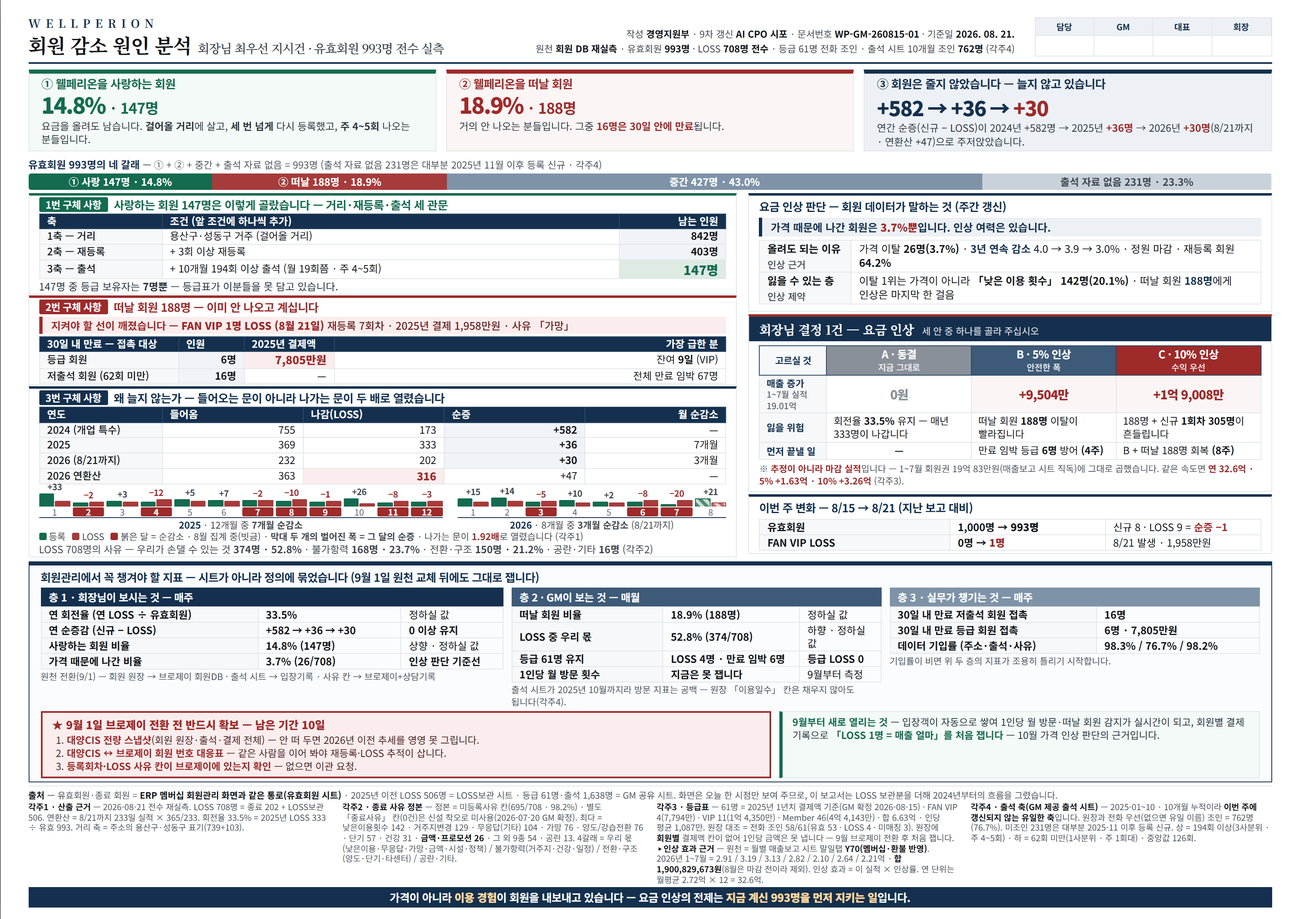
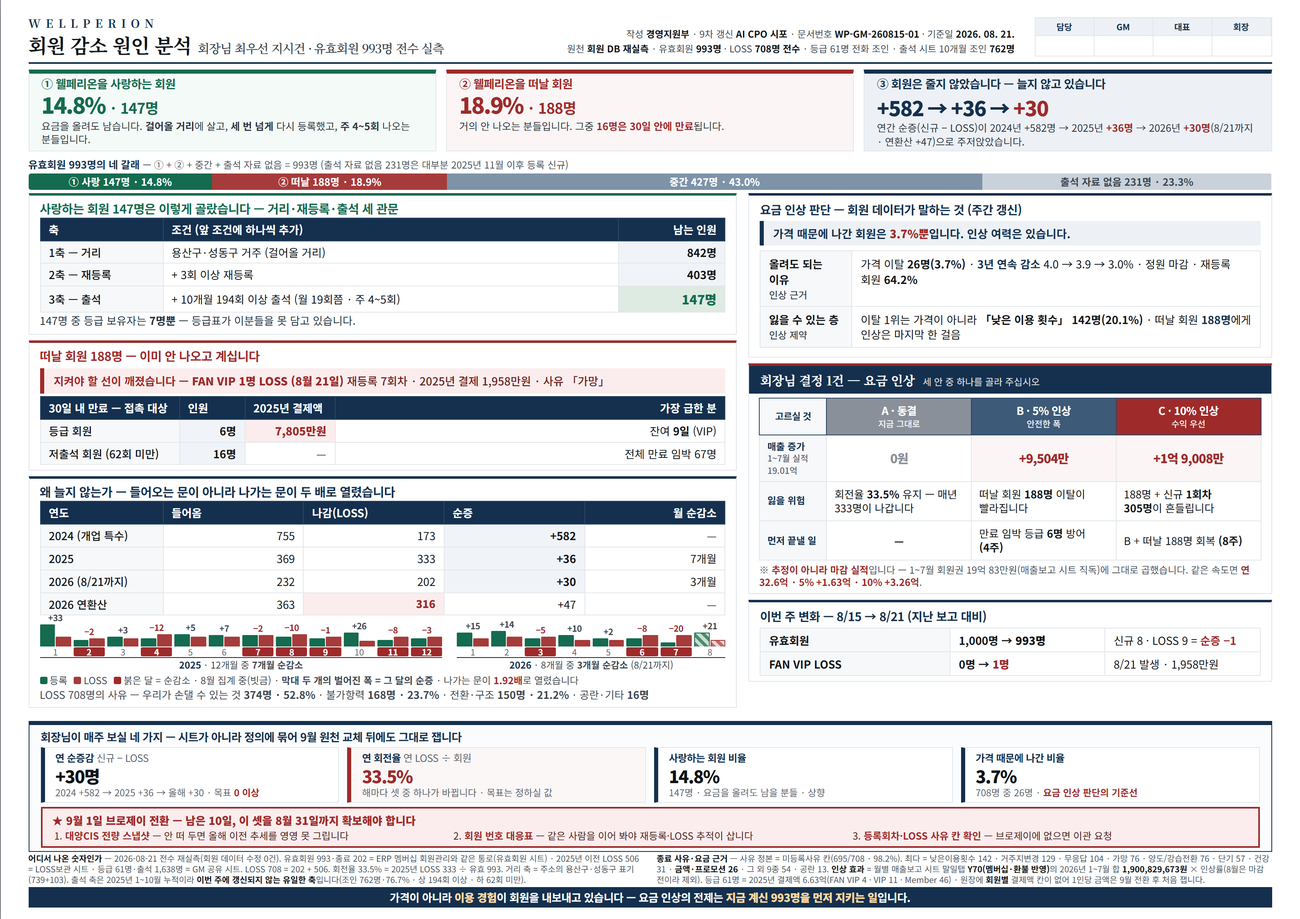
docs(cpo): A3 단순화 — 하단 3층 지표를 회장님 4카드로, 각주 4개를 2개로
GM: '내용 자체도 너무 복잡해 가독성 및 직관적이지 못해' · '위 3가지 지표는 임팩트 있어'

뺀 것(정보는 다른 자리에 이미 있다):
- KPI 3층 표(층1 4행 + 층2 4행 + 층3 3행) -> 회장님 4카드 한 줄. 층2 지표는 상단 hero·LOSS 사유
  줄에, 층3 접촉 명단은 좌측 '30일 내 만료 접촉 대상' 표에 이미 있어 두 벌이었다.
- '9월부터 새로 열리는 것' 박스 — 10월 인상 판단 근거라는 요지는 결정 카드가 이미 말한다.
- 각주 4개 -> 2개(어디서 나온 숫자인가 / 종료 사유·요금 근거). 본문 각주 번호 참조도 제거.
- '1번/2번/3번 구체 사항' 라벨 — 회장님께 뜻이 없는 내부 번호.
- 브로제이 확보 3항목을 세로 목록에서 가로 3칸으로.

키운 것(빈 자리를 여백이 아니라 가독성으로 채웠다):
- 4지표를 상단 hero 와 같은 어법의 큰 숫자 카드로(GM 이 임팩트 있다고 한 형태).
- 표 글자 12.4 -> 13.4px · 행 높이 1.42 -> 2.0 · 결정 카드 셀 padding 2 -> 6px.
- 월별 막대 1.7배(그릇 34 -> 42px) — 막대가 너무 작아 '벌어진 폭' 이 안 보였다.
- 섹션 padding·단 간격 확대.

블록 수 10 -> 6. 렌더 검증: A3 넘침 0 · PNG 동시 갱신.

Changed region(s): [[0.0, 0.187, 0.9975, 0.9662], [0.4052, 0.0312, 0.7793, 0.0623]]

diff --git a/3. 웰페리온 가이드/reports/260815_회원감소원인분석_A3.html b/3. 웰페리온 가이드/reports/260815_회원감소원인분석_A3.html
@@ -83,25 +83,25 @@
 
   /* 【중단】 좌우 2단 */
   .body2{ margin-top:4px; display:flex; gap:14px; flex:1; min-height:0; }
-  .colL{ width:57%; flex:none; display:flex; flex-direction:column; gap:1px; }
-  .colR{ flex:1; display:flex; flex-direction:column; gap:3px; min-width:0; }
+  .colL{ width:57%; flex:none; display:flex; flex-direction:column; gap:7px; }
+  .colR{ flex:1; display:flex; flex-direction:column; gap:7px; min-width:0; }
 
   /* 구체 사항 박스 */
-  .sec{ border:1px solid var(--line); border-top:3px solid var(--navy); padding:1px 12px 1px; }
-  .sec h3{ font-size:14px; font-weight:700; color:var(--navy); letter-spacing:-.3px; margin-bottom:1px; }
+  .sec{ border:1px solid var(--line); border-top:3px solid var(--navy); padding:5px 13px 6px; }
+  .sec h3{ font-size:15px; font-weight:700; color:var(--navy); letter-spacing:-.3px; margin-bottom:1px; }
   .sec h3 .no{ display:inline-block; background:var(--navy); color:#fff; font-size:12.3px; padding:0 8px;
     border-radius:2px; margin-right:7px; vertical-align:1px; }
   .sec.g{ border-top-color:var(--good); } .sec.g h3{ color:var(--good); } .sec.g h3 .no{ background:var(--good); }
   .sec.r{ border-top-color:var(--bad); } .sec.r h3{ color:var(--bad); } .sec.r h3 .no{ background:var(--bad); }
-  .sec p{ font-size:12.5px; line-height:1.29; color:#22303B; margin-top:1px; }
+  .sec p{ font-size:13.2px; line-height:1.4; color:#22303B; margin-top:1px; }
   .sec p b{ font-weight:700; }
-  .key{ background:#FBEDED; border-left:4px solid var(--bad); padding:2px 11px; margin-top:2px;
-    font-size:12.8px; font-weight:700; line-height:1.34; color:var(--bad); }
+  .key{ background:#FBEDED; border-left:5px solid var(--bad); padding:6px 12px; margin-top:5px;
+    font-size:13.6px; font-weight:700; line-height:1.4; color:var(--bad); }
   .key span{ font-weight:500; color:#6B2020; }
 
   /* 3축 깔때기 표 */
   .xt{ width:100%; border-collapse:collapse; table-layout:fixed; }
-  .xt th,.xt td{ border:1px solid var(--line); padding:0 9px; font-size:12.4px; line-height:1.42; text-align:right; font-variant-numeric:tabular-nums; }
+  .xt th,.xt td{ border:1px solid var(--line); padding:0 10px; font-size:13.4px; line-height:2.0; text-align:right; font-variant-numeric:tabular-nums; }
   .xt th{ background:var(--navy); color:#fff; font-weight:700; border-color:#2A4763; text-align:left; }
   .xt th:last-child{ text-align:right; }
   .xt td.k{ text-align:left; background:#F6F8FA; font-weight:500; }
@@ -109,10 +109,10 @@
   .xt td.tot{ font-weight:700; background:#F0F3F7; }
 
   /* 월별 그래프 */
-  .chart{ display:flex; gap:18px; margin-top:5px; }
+  .chart{ display:flex; gap:18px; margin-top:8px; }
   .yr{ flex:12; }
   .yr.y26{ flex:8; }
-  .yr .bars{ display:flex; align-items:flex-end; gap:3px; height:34px; }
+  .yr .bars{ display:flex; align-items:flex-end; gap:3px; height:42px; }
   .m{ flex:1; display:flex; flex-direction:column; align-items:center; justify-content:flex-end; height:100%; }
   .m b{ font-size:10.5px; font-weight:700; color:#3C464F; margin-bottom:1px; font-variant-numeric:tabular-nums; letter-spacing:-.3px; }
   .m .duo{ display:flex; align-items:flex-end; gap:1px; width:100%; }
@@ -124,7 +124,7 @@
   .m s{ text-decoration:none; font-size:10.5px; color:#5C666F; margin-top:1px; line-height:1.1; }
   .m.neg b{ color:var(--bad); }
   .m.neg s{ background:var(--bad); color:#fff; width:100%; text-align:center; border-radius:2px; font-weight:700; }
-  .legend{ margin-top:0; font-size:11.2px; color:#3C464F; line-height:1.2; }
+  .legend{ margin-top:3px; font-size:11.8px; color:#3C464F; line-height:1.35; }
   .legend .sw{ display:inline-block; width:9px; height:9px; border-radius:2px; vertical-align:baseline; margin:0 3px 0 8px; }
   .legend .sw:first-child{ margin-left:0; }
   .legend .neg-sw{ background:var(--bad); }
@@ -135,21 +135,21 @@
   /* 사유 구성 스택 */
   .stack{ display:flex; height:11px; border-radius:2px; overflow:hidden; margin-top:4px; }
   .stack i{ display:block; height:100%; }
-  .chips{ font-size:12.2px; line-height:1.24; color:#3C464F; margin-top:1px; }
+  .chips{ font-size:12.8px; line-height:1.4; color:#3C464F; margin-top:5px; }
   .chips b{ font-weight:700; }
   .dot{ display:inline-block; width:8px; height:8px; border-radius:2px; margin:0 3px 0 9px; vertical-align:baseline; }
   .dot:first-child{ margin-left:0; }
   .c-us{ background:var(--bad); } .c-na{ background:#8A9099; } .c-tr{ background:#B9C6D4; } .c-et{ background:#E3E7EB; }
 
   /* 우측 — 안건 */
-  .box{ border:1px solid var(--line); border-top:3px solid var(--navy); padding:3px 12px 3px; }
-  .box h3{ font-size:13.8px; font-weight:700; color:var(--navy); letter-spacing:-.3px; margin-bottom:4px; }
-  .agenda .concl{ background:var(--navy-bg); border-left:4px solid var(--navy); color:var(--navy);
-    font-weight:700; font-size:13px; padding:3px 10px; margin-bottom:4px; line-height:1.35; }
+  .box{ border:1px solid var(--line); border-top:3px solid var(--navy); padding:6px 13px 6px; }
+  .box h3{ font-size:14.6px; font-weight:700; color:var(--navy); letter-spacing:-.3px; margin-bottom:4px; }
+  .agenda .concl{ background:var(--navy-bg); border-left:5px solid var(--navy); color:var(--navy);
+    font-weight:700; font-size:13.8px; padding:6px 11px; margin-bottom:6px; line-height:1.35; }
   .agenda p.prob{ font-size:12.8px; line-height:1.36; margin-bottom:4px; }
   .agenda p.prob b{ color:var(--bad); }
   table.ag{ width:100%; border-collapse:collapse; table-layout:fixed; margin-bottom:5px; }
-  table.ag th, table.ag td{ border:1px solid var(--line); padding:2px 9px; font-size:12.8px; line-height:1.3; vertical-align:top; }
+  table.ag th, table.ag td{ border:1px solid var(--line); padding:6px 10px; font-size:13.4px; line-height:1.38; vertical-align:top; }
   table.ag td.a{ background:#F6F8FA; font-weight:700; }
   table.ag td.a .sub{ display:block; font-weight:500; font-size:11.8px; color:#3C464F; margin-top:2px; line-height:1.3; }
   table.ag .lbl{ font-weight:700; color:var(--navy); }
@@ -158,7 +158,7 @@
 
   /* 결정 요청 — 3안 비교 */
   .opt{ width:100%; border-collapse:collapse; table-layout:fixed; }
-  .opt th, .opt td{ border:1px solid var(--line); padding:2px 8px; font-size:12.2px; line-height:1.28; }
+  .opt th, .opt td{ border:1px solid var(--line); padding:6px 9px; font-size:13px; line-height:1.35; }
   .opt thead th{ color:#fff; font-weight:700; text-align:center; font-size:13.2px; letter-spacing:-.3px; border-color:#2A4763; }
   .opt thead th.rk{ background:#F6F8FA; color:var(--navy); font-size:11.5px; }
   .opt th.oa{ background:#8A9099; } .opt th.ob{ background:#3D5A78; } .opt th.oc{ background:var(--bad); }
@@ -168,10 +168,10 @@
   .opt td.money.up{ background:#FBF5F5; color:var(--bad); }
   .opt td.money.zero{ color:#8A9099; }
   .opt td.c{ text-align:center; font-weight:700; }
-  .askhead{ background:var(--navy); color:#fff; padding:4px 12px; display:flex; align-items:baseline; gap:10px; }
+  .askhead{ background:var(--navy); color:#fff; padding:6px 13px; display:flex; align-items:baseline; gap:10px; }
   .askhead strong{ font-family:'Noto Serif KR',serif; font-size:15.5px; letter-spacing:-.5px; }
   .askhead span{ font-size:11.5px; opacity:.85; }
-  .asknote{ font-size:11px; color:#48525B; line-height:1.32; margin-top:3px; }
+  .asknote{ font-size:11.8px; color:#48525B; line-height:1.32; margin-top:3px; }
   .asknote b{ color:var(--bad); }
 
   .ask{ background:var(--navy); color:#fff; display:flex; align-items:stretch; }
@@ -191,11 +191,22 @@
   .kpi{ margin-top:4px; border:1.5px solid var(--navy); border-top:5px solid var(--navy); padding:4px 14px 4px; background:#FBFCFE; }
   .kpi h3{ font-size:13.8px; font-weight:700; color:var(--navy); letter-spacing:-.4px; margin-bottom:3px; }
   table.kt{ width:100%; border-collapse:collapse; table-layout:fixed; }
-  table.kt th, table.kt td{ border:1px solid var(--line); padding:1px 9px; font-size:12.5px; line-height:1.28; }
+  table.kt th, table.kt td{ border:1px solid var(--line); padding:5px 10px; font-size:13.4px; line-height:1.35; }
   table.kt thead th{ background:var(--navy); color:#fff; font-weight:700; border-color:#2A4763; text-align:left; }
   table.kt td.k{ background:#F6F8FA; font-weight:700; }
   table.kt td.v{ font-variant-numeric:tabular-nums; font-weight:700; }
   table.kt td.v .est{ font-weight:400; color:#5C666F; font-size:11.8px; }
+  /* 회장님 4지표 — hero 와 같은 어법(큰 숫자 카드) */
+  .kpi4{ display:flex; gap:10px; }
+  .kpi4 .c{ flex:1; border:1px solid var(--line); border-left:5px solid var(--navy); background:#fff; padding:3px 13px 4px; }
+  .kpi4 .c .lb{ font-size:12.3px; font-weight:700; color:var(--navy); letter-spacing:-.3px; }
+  .kpi4 .c .vv{ font-size:21px; font-weight:900; letter-spacing:-1px; line-height:1.15; margin:1px 0 1px;
+    font-variant-numeric:tabular-nums; }
+  .kpi4 .c .gg{ font-size:11.5px; color:#5C666F; line-height:1.3; }
+  .kpi4 .c .gg b{ color:var(--bad); font-weight:700; }
+  .kpi4 .c.hot{ border-left-color:var(--bad); background:#FBF7F7; }
+  .kpi4 .c.hot .vv{ color:var(--bad); }
+
   .tiers{ display:flex; gap:10px; }
   .tier{ flex:1; }
   .tier.t1{ flex:1.25; }
@@ -245,8 +256,7 @@
     </div>
     <div class="meta">
       작성 <b>경영지원부</b> · 9차 갱신 <b>AI CPO 시포</b> · 문서번호 <b>WP-GM-260815-01</b> · 기준일 <b>2026. 08. 21.</b><br>
-      원천 <b>회원 DB 재실측</b> · 유효회원 <b>993명</b> · LOSS <b>708명 전수</b> · 등급 61명 전화 조인 · 출석 시트 10개월 조인 <b>762명</b> (각주4)
-    </div>
+      원천 <b>회원 DB 재실측</b> · 유효회원 <b>993명</b> · LOSS <b>708명 전수</b> · 등급 61명 전화 조인 · 출석 시트 10개월 조인 <b>762명</b>    </div>
     <div class="sign">
       <div><div class="t">담당</div><div class="b"></div></div>
       <div><div class="t">GM</div><div class="b"></div></div>
@@ -276,7 +286,7 @@
 
   <!-- 전체 1,000명 네 갈래 띠 -->
   <div class="band">
-    <div class="tt">유효회원 993명의 네 갈래 <span>— ① + ② + 중간 + 출석 자료 없음 = 993명 (출석 자료 없음 231명은 대부분 2025년 11월 이후 등록 신규 · 각주4)</span></div>
+    <div class="tt">유효회원 993명의 네 갈래 <span>— ① + ② + 중간 + 출석 자료 없음 = 993명 (출석 자료 없음 231명은 대부분 2025년 11월 이후 등록 신규)</span></div>
     <div class="strip">
       <i class="s1" style="width:14.8%">① 사랑 147명 · 14.8%</i>
       <i class="s2" style="width:18.9%">② 떠날 188명 · 18.9%</i>
@@ -291,7 +301,7 @@
     <div class="colL">
 
       <div class="sec g">
-        <h3><span class="no">1번 구체 사항</span>사랑하는 회원 147명은 이렇게 골랐습니다 — 거리·재등록·출석 세 관문</h3>
+        <h3>사랑하는 회원 147명은 이렇게 골랐습니다 — 거리·재등록·출석 세 관문</h3>
         <table class="xt">
           <colgroup><col style="width:150px"><col><col style="width:130px"></colgroup>
           <thead><tr><th>축</th><th>조건 (앞 조건에 하나씩 추가)</th><th>남는 인원</th></tr></thead>
@@ -305,7 +315,7 @@
       </div>
 
       <div class="sec r">
-        <h3><span class="no">2번 구체 사항</span>떠날 회원 188명 — 이미 안 나오고 계십니다</h3>
+        <h3>떠날 회원 188명 — 이미 안 나오고 계십니다</h3>
         <div class="key">지켜야 할 선이 깨졌습니다 — <b>FAN VIP 1명 LOSS (8월 21일)</b> <span>재등록 7회차 · 2025년 결제 1,958만원 · 사유 「가망」</span></div>
         <table class="xt" style="margin-top:3px">
           <colgroup><col style="width:170px"><col style="width:80px"><col style="width:110px"><col></colgroup>
@@ -318,7 +328,7 @@
       </div>
 
       <div class="sec">
-        <h3><span class="no">3번 구체 사항</span>왜 늘지 않는가 — 들어오는 문이 아니라 나가는 문이 두 배로 열렸습니다</h3>
+        <h3>왜 늘지 않는가 — 들어오는 문이 아니라 나가는 문이 두 배로 열렸습니다</h3>
         <table class="xt">
           <colgroup><col style="width:150px"><col><col><col><col></colgroup>
           <thead><tr><th>연도</th><th>들어옴</th><th>나감(LOSS)</th><th>순증</th><th>월 순감소</th></tr></thead>
@@ -332,37 +342,37 @@
         <div class="chart">
           <div class="yr">
             <div class="bars">
-              <div class="m"><b>+33</b><span class="duo"><i class="in" style="height:16px"></i><i class="out" style="height:7px"></i></span><s>1</s></div>
-              <div class="m neg"><b>−2</b><span class="duo"><i class="in" style="height:5px"></i><i class="out" style="height:6px"></i></span><s>2</s></div>
-              <div class="m"><b>+3</b><span class="duo"><i class="in" style="height:7px"></i><i class="out" style="height:6px"></i></span><s>3</s></div>
-              <div class="m neg"><b>−12</b><span class="duo"><i class="in" style="height:6px"></i><i class="out" style="height:9px"></i></span><s>4</s></div>
-              <div class="m"><b>+5</b><span class="duo"><i class="in" style="height:9px"></i><i class="out" style="height:7px"></i></span><s>5</s></div>
-              <div class="m"><b>+7</b><span class="duo"><i class="in" style="height:8px"></i><i class="out" style="height:7px"></i></span><s>6</s></div>
-              <div class="m neg"><b>−2</b><span class="duo"><i class="in" style="height:8px"></i><i class="out" style="height:8px"></i></span><s>7</s></div>
-              <div class="m neg"><b>−10</b><span class="duo"><i class="in" style="height:7px"></i><i class="out" style="height:9px"></i></span><s>8</s></div>
-              <div class="m neg"><b>−1</b><span class="duo"><i class="in" style="height:6px"></i><i class="out" style="height:7px"></i></span><s>9</s></div>
-              <div class="m"><b>+26</b><span class="duo"><i class="in" style="height:10px"></i><i class="out" style="height:4px"></i></span><s>10</s></div>
-              <div class="m neg"><b>−8</b><span class="duo"><i class="in" style="height:5px"></i><i class="out" style="height:7px"></i></span><s>11</s></div>
-              <div class="m neg"><b>−3</b><span class="duo"><i class="in" style="height:6px"></i><i class="out" style="height:7px"></i></span><s>12</s></div>
+              <div class="m"><b>+33</b><span class="duo"><i class="in" style="height:27px"></i><i class="out" style="height:12px"></i></span><s>1</s></div>
+              <div class="m neg"><b>−2</b><span class="duo"><i class="in" style="height:8px"></i><i class="out" style="height:10px"></i></span><s>2</s></div>
+              <div class="m"><b>+3</b><span class="duo"><i class="in" style="height:12px"></i><i class="out" style="height:10px"></i></span><s>3</s></div>
+              <div class="m neg"><b>−12</b><span class="duo"><i class="in" style="height:10px"></i><i class="out" style="height:15px"></i></span><s>4</s></div>
+              <div class="m"><b>+5</b><span class="duo"><i class="in" style="height:15px"></i><i class="out" style="height:12px"></i></span><s>5</s></div>
+              <div class="m"><b>+7</b><span class="duo"><i class="in" style="height:14px"></i><i class="out" style="height:12px"></i></span><s>6</s></div>
+              <div class="m neg"><b>−2</b><span class="duo"><i class="in" style="height:14px"></i><i class="out" style="height:14px"></i></span><s>7</s></div>
+              <div class="m neg"><b>−10</b><span class="duo"><i class="in" style="height:12px"></i><i class="out" style="height:15px"></i></span><s>8</s></div>
+              <div class="m neg"><b>−1</b><span class="duo"><i class="in" style="height:10px"></i><i class="out" style="height:12px"></i></span><s>9</s></div>
+              <div class="m"><b>+26</b><span class="duo"><i class="in" style="height:17px"></i><i class="out" style="height:7px"></i></span><s>10</s></div>
+              <div class="m neg"><b>−8</b><span class="duo"><i class="in" style="height:8px"></i><i class="out" style="height:12px"></i></span><s>11</s></div>
+              <div class="m neg"><b>−3</b><span class="duo"><i class="in" style="height:10px"></i><i class="out" style="height:12px"></i></span><s>12</s></div>
             </div>
             <div class="cap">2025 <span>· 12개월 중 <b>7개월 순감소</b></span></div>
           </div>
           <div class="yr y26">
             <div class="bars">
-              <div class="m"><b>+15</b><span class="duo"><i class="in" style="height:10px"></i><i class="out" style="height:6px"></i></span><s>1</s></div>
-              <div class="m"><b>+14</b><span class="duo"><i class="in" style="height:11px"></i><i class="out" style="height:7px"></i></span><s>2</s></div>
-              <div class="m neg"><b>−5</b><span class="duo"><i class="in" style="height:6px"></i><i class="out" style="height:7px"></i></span><s>3</s></div>
-              <div class="m"><b>+10</b><span class="duo"><i class="in" style="height:8px"></i><i class="out" style="height:5px"></i></span><s>4</s></div>
-              <div class="m"><b>+2</b><span class="duo"><i class="in" style="height:6px"></i><i class="out" style="height:5px"></i></span><s>5</s></div>
-              <div class="m neg"><b>−8</b><span class="duo"><i class="in" style="height:6px"></i><i class="out" style="height:8px"></i></span><s>6</s></div>
-              <div class="m neg"><b>−20</b><span class="duo"><i class="in" style="height:3px"></i><i class="out" style="height:8px"></i></span><s>7</s></div>
-              <div class="m part"><b>+21</b><span class="duo"><i class="in" style="height:10px"></i><i class="out" style="height:5px"></i></span><s>8</s></div>
+              <div class="m"><b>+15</b><span class="duo"><i class="in" style="height:17px"></i><i class="out" style="height:10px"></i></span><s>1</s></div>
+              <div class="m"><b>+14</b><span class="duo"><i class="in" style="height:19px"></i><i class="out" style="height:12px"></i></span><s>2</s></div>
+              <div class="m neg"><b>−5</b><span class="duo"><i class="in" style="height:10px"></i><i class="out" style="height:12px"></i></span><s>3</s></div>
+              <div class="m"><b>+10</b><span class="duo"><i class="in" style="height:14px"></i><i class="out" style="height:8px"></i></span><s>4</s></div>
+              <div class="m"><b>+2</b><span class="duo"><i class="in" style="height:10px"></i><i class="out" style="height:8px"></i></span><s>5</s></div>
+              <div class="m neg"><b>−8</b><span class="duo"><i class="in" style="height:10px"></i><i class="out" style="height:14px"></i></span><s>6</s></div>
+              <div class="m neg"><b>−20</b><span class="duo"><i class="in" style="height:5px"></i><i class="out" style="height:14px"></i></span><s>7</s></div>
+              <div class="m part"><b>+21</b><span class="duo"><i class="in" style="height:17px"></i><i class="out" style="height:8px"></i></span><s>8</s></div>
             </div>
             <div class="cap">2026 <span>· 8개월 중 <b>3개월 순감소</b> (8/21까지)</span></div>
           </div>
         </div>
-        <div class="legend"><span class="sw" style="background:var(--good)"></span>등록<span class="sw" style="background:#A63B3B"></span>LOSS<span class="sw neg-sw"></span>붉은 달 = 순감소 · 8월 집계 중(빗금) · <b>막대 두 개의 벌어진 폭 = 그 달의 순증</b> · 나가는 문이 <b style="color:var(--bad)">1.92배</b>로 열렸습니다 (각주1)</div>
-        <div class="chips" style="margin-top:1px">LOSS 708명의 사유 — 우리가 손댈 수 있는 것 <b>374명 · 52.8%</b> · 불가항력 <b>168명 · 23.7%</b> · 전환·구조 <b>150명 · 21.2%</b> · 공란·기타 <b>16명</b> (각주2)</div>
+        <div class="legend"><span class="sw" style="background:var(--good)"></span>등록<span class="sw" style="background:#A63B3B"></span>LOSS<span class="sw neg-sw"></span>붉은 달 = 순감소 · 8월 집계 중(빗금) · <b>막대 두 개의 벌어진 폭 = 그 달의 순증</b> · 나가는 문이 <b style="color:var(--bad)">1.92배</b>로 열렸습니다</div>
+        <div class="chips" style="margin-top:1px">LOSS 708명의 사유 — 우리가 손댈 수 있는 것 <b>374명 · 52.8%</b> · 불가항력 <b>168명 · 23.7%</b> · 전환·구조 <b>150명 · 21.2%</b> · 공란·기타 <b>16명</b></div>
       </div>
 
     </div>
@@ -421,7 +431,7 @@
             </tr>
           </tbody>
         </table>
-        <div class="asknote">※ <b>추정이 아니라 마감 실적</b>입니다 — 1~7월 회원권 19억 83만원(매출보고 시트 직독)에 그대로 곱했습니다. 같은 속도면 <b>연 32.6억 · 5% +1.63억 · 10% +3.26억</b> (각주3).</div>
+        <div class="asknote">※ <b>추정이 아니라 마감 실적</b>입니다 — 1~7월 회원권 19억 83만원(매출보고 시트 직독)에 그대로 곱했습니다. 같은 속도면 <b>연 32.6억 · 5% +1.63억 · 10% +3.26억</b>.</div>
         </div>
       </div>
 
@@ -441,67 +451,45 @@
 
   <!-- 【하단 마무리】 회원관리에서 꼭 챙겨야 할 지표 — 3층 체계 -->
   <div class="kpi">
-    <h3>회원관리에서 꼭 챙겨야 할 지표 — 시트가 아니라 정의에 묶었습니다 (9월 1일 원천 교체 뒤에도 그대로 잽니다)</h3>
-    <div class="tiers">
-      <div class="tier t1">
-        <div class="th">층 1 · 회장님이 보시는 것 — 매주</div>
-        <table class="kt">
-          <colgroup><col style="width:47%"><col style="width:31%"><col></colgroup>
-          <tbody>
-            <tr><td class="k">연 회전율 (연 LOSS ÷ 유효회원)</td><td class="v">33.5%</td><td>정하실 값</td></tr>
-            <tr><td class="k">연 순증감 (신규 − LOSS)</td><td class="v">+582 → +36 → +30</td><td><b>0 이상 유지</b></td></tr>
-            <tr><td class="k">사랑하는 회원 비율</td><td class="v">14.8% (147명)</td><td>상향 · 정하실 값</td></tr>
-            <tr><td class="k">가격 때문에 나간 비율</td><td class="v">3.7% (26/708)</td><td><b>인상 판단 기준선</b></td></tr>
-          </tbody>
-        </table>
-        <div class="src">원천 전환(9/1) — 회원 원장 → 브로제이 회원DB · 출석 시트 → 입장기록 · 사유 칸 → 브로제이+상담기록</div>
+    <h3>회장님이 매주 보실 네 가지 — 시트가 아니라 정의에 묶어 9월 원천 교체 뒤에도 그대로 잽니다</h3>
+    <div class="kpi4">
+      <div class="c">
+        <div class="lb">연 순증감 <span style="font-weight:400;color:#5C666F">신규 − LOSS</span></div>
+        <div class="vv">+30명</div>
+        <div class="gg">2024 +582 → 2025 +36 → 올해 +30 · 목표 <b>0 이상</b></div>
       </div>
-      <div class="tier t2">
-        <div class="th">층 2 · GM이 보는 것 — 매월</div>
-        <table class="kt">
-          <colgroup><col style="width:41%"><col style="width:37%"><col></colgroup>
-          <tbody>
-            <tr><td class="k">떠날 회원 비율</td><td class="v">18.9% (188명)</td><td>정하실 값</td></tr>
-            <tr><td class="k">LOSS 중 우리 몫</td><td class="v">52.8% (374/708)</td><td>하향 · 정하실 값</td></tr>
-            <tr><td class="k">등급 61명 유지</td><td class="v">LOSS 4명 · 만료 임박 6명</td><td><b>등급 LOSS 0</b></td></tr>
-            <tr><td class="k">1인당 월 방문 횟수</td><td class="v">지금은 못 잽니다</td><td>9월부터 측정</td></tr>
-          </tbody>
-        </table>
-        <div class="src">출석 시트가 2025년 10월까지라 방문 지표는 공백 — 원장 「이용일수」 칸은 채우지 않아도 됩니다(각주4).</div>
+      <div class="c hot">
+        <div class="lb">연 회전율 <span style="font-weight:400;color:#5C666F">연 LOSS ÷ 회원</span></div>
+        <div class="vv">33.5%</div>
+        <div class="gg">해마다 셋 중 하나가 바뀝니다 · 목표는 정하실 값</div>
       </div>
-      <div class="tier t3">
-        <div class="th">층 3 · 실무가 챙기는 것 — 매주</div>
-        <table class="kt">
-          <colgroup><col style="width:56%"><col></colgroup>
-          <tbody>
-            <tr><td class="k">30일 내 만료 저출석 회원 접촉</td><td class="v">16명</td></tr>
-            <tr><td class="k">30일 내 만료 등급 회원 접촉</td><td class="v">6명 · 7,805만원</td></tr>
-            <tr><td class="k">데이터 기입률 (주소·출석·사유)</td><td class="v">98.3% / 76.7% / 98.2%</td></tr>
-          </tbody>
-        </table>
-        <div class="src">기입률이 비면 위 두 층의 지표가 조용히 틀리기 시작합니다.</div>
+      <div class="c">
+        <div class="lb">사랑하는 회원 비율</div>
+        <div class="vv">14.8%</div>
+        <div class="gg">147명 · 요금을 올려도 남을 분들 · 상향</div>
+      </div>
+      <div class="c">
+        <div class="lb">가격 때문에 나간 비율</div>
+        <div class="vv">3.7%</div>
+        <div class="gg">708명 중 26명 · <b>요금 인상 판단의 기준선</b></div>
       </div>
     </div>
     <div class="gbx">
-      <div class="must">
-        <div class="bt">★ 9월 1일 브로제이 전환 전 반드시 확보 — 남은 기간 10일</div>
-        <ol>
-          <li><b>대양CIS 전량 스냅샷</b>(회원 원장·출석·결제 전체) — 안 떠 두면 2026년 이전 추세를 영영 못 그립니다.</li>
-          <li><b>대양CIS ↔ 브로제이 회원 번호 대응표</b> — 같은 사람을 이어 봐야 재등록·LOSS 추적이 삽니다.</li>
-          <li><b>등록회차·LOSS 사유 칸이 브로제이에 있는지 확인</b> — 없으면 이관 요청.</li>
+      <div class="must" style="flex:1">
+        <div class="bt">★ 9월 1일 브로제이 전환 — 남은 10일, 이 셋을 8월 31일까지 확보해야 합니다</div>
+        <ol style="display:flex;gap:18px;margin-left:16px">
+          <li style="flex:1"><b>대양CIS 전량 스냅샷</b> — 안 떠 두면 올해 이전 추세를 영영 못 그립니다</li>
+          <li style="flex:1"><b>회원 번호 대응표</b> — 같은 사람을 이어 봐야 재등록·LOSS 추적이 삽니다</li>
+          <li style="flex:1"><b>등록회차·LOSS 사유 칸 확인</b> — 브로제이에 없으면 이관 요청</li>
         </ol>
       </div>
-      <div class="open9"><b>9월부터 새로 열리는 것</b> — 입장객이 자동으로 쌓여 1인당 월 방문·떠날 회원 감지가 실시간이 되고, 회원별 결제 기록으로 <b>「LOSS 1명 = 매출 얼마」를 처음 잽니다</b> — 10월 가격 인상 판단의 근거입니다.</div>
     </div>
   </div>
 
   <!-- 각주 -->
-  <div class="foot-src"><b>출처</b> — 유효회원·종료 회원 = <b>ERP 멤버십 회원관리 화면과 같은 통로(유효회원 시트)</b> · 2025년 이전 LOSS 506명 = LOSS보관 시트 · 등급 61명·출석 1,638명 = GM 공유 시트. 화면은 오늘 한 시점만 보여 주므로, 이 보고서는 LOSS 보관분을 더해 2024년부터의 흐름을 그렸습니다.</div>
   <div class="foot">
-    <div><b>각주1 · 산출 근거</b> — 2026-08-21 전수 재실측. LOSS 708명 = 종료 202 + LOSS보관 506. 연환산 = 8/21까지 233일 실적 × 365/233. 회전율 33.5% = 2025년 LOSS 333 ÷ 유효 993. 거리 축 = 주소의 용산구·성동구 표기(739+103).</div>
-    <div><b>각주2 · 종료 사유 정본</b> — 정본 = 미등록사유 칸(695/708 · 98.2%) · 별도 「종료사유」 칸(0건)은 신설 착오로 미사용(2026-07-20 GM 확정). 최다 = 낮은이용횟수 142 · 거주지변경 129 · 무응답(기타) 104 · 가망 76 · 양도/강습전환 76 · 단기 57 · 건강 31 · <b>금액·프로모션 26</b> · 그 외 9종 54 · 공란 13. 4갈래 = 우리 몫(낮은이용·무응답·가망·금액·시설·정책) / 불가항력(거주지·건강·일정) / 전환·구조(양도·단기·타센터) / 공란·기타.</div>
-    <div><b>각주3 · 등급표</b> — 61명 = 2025년 1년치 결제액 기준(GM 확정 2026-08-15) · FAN VIP 4(7,794만) · VIP 11(1억 4,350만) · Member 46(4억 4,143만) · 합 6.63억 · 인당 평균 1,087만. 원장 대조 = 전화 조인 58/61(유효 53 · LOSS 4 · 미매칭 3). 원장에 <b>회원별</b> 결제액 칸이 없어 1인당 금액은 못 냅니다 — 9월 브로제이 전환 후 처음 잽니다.<br><b>▸인상 효과 근거</b> — 원천 = 월별 매출보고 시트 말일탭 <b>Y70(멤버십·환불 반영)</b>. 2026년 1~7월 = 2.91 / 3.19 / 3.13 / 2.82 / 2.10 / 2.64 / 2.21억 · <b>합 1,900,829,673원</b>(8월은 마감 전이라 제외). 인상 효과 = 이 실적 × 인상률. 연 단위는 월평균 2.72억 × 12 = 32.6억.</div>
-    <div><b>각주4 · 출석 축(GM 제공 출석 시트)</b> — 2025-01~10 · 10개월 누적이라 <b>이번 주에 갱신되지 않는 유일한 축</b>입니다. 원장과 전화 우선(없으면 유일 이름) 조인 = 762명(76.7%). 미조인 231명은 대부분 2025-11 이후 등록 신규. 상 = 194회 이상(3사분위 · 주 4~5회) · 하 = 62회 미만(1사분위 · 주 1회대) · 중앙값 126회.</div>
+    <div><b>어디서 나온 숫자인가</b> — 2026-08-21 전수 재실측(회원 데이터 수정 0건). 유효회원 993·종료 202 = ERP 멤버십 회원관리와 같은 통로(유효회원 시트) · 2025년 이전 LOSS 506 = LOSS보관 시트 · 등급 61명·출석 1,638명 = GM 공유 시트. LOSS 708 = 202 + 506. 회전율 33.5% = 2025년 LOSS 333 ÷ 유효 993. 거리 축 = 주소의 용산구·성동구 표기(739+103). 출석 축은 2025년 1~10월 누적이라 <b>이번 주에 갱신되지 않는 유일한 축</b>입니다(조인 762명·76.7% · 상 194회 이상 · 하 62회 미만).</div>
+    <div><b>종료 사유·요금 근거</b> — 사유 정본 = 미등록사유 칸(695/708 · 98.2%). 최다 = 낮은이용횟수 142 · 거주지변경 129 · 무응답 104 · 가망 76 · 양도/강습전환 76 · 단기 57 · 건강 31 · <b>금액·프로모션 26</b> · 그 외 9종 54 · 공란 13. <b>인상 효과</b> = 월별 매출보고 시트 말일탭 <b>Y70(멤버십·환불 반영)</b>의 2026년 1~7월 합 <b>1,900,829,673원</b> × 인상률(8월은 마감 전이라 제외). 등급 61명 = 2025년 결제액 6.63억(FAN VIP 4 · VIP 11 · Member 46) · 원장에 <b>회원별</b> 결제액 칸이 없어 1인당 금액은 9월 전환 후 처음 잽니다.</div>
   </div>
 
   <!-- 맺음 -->
